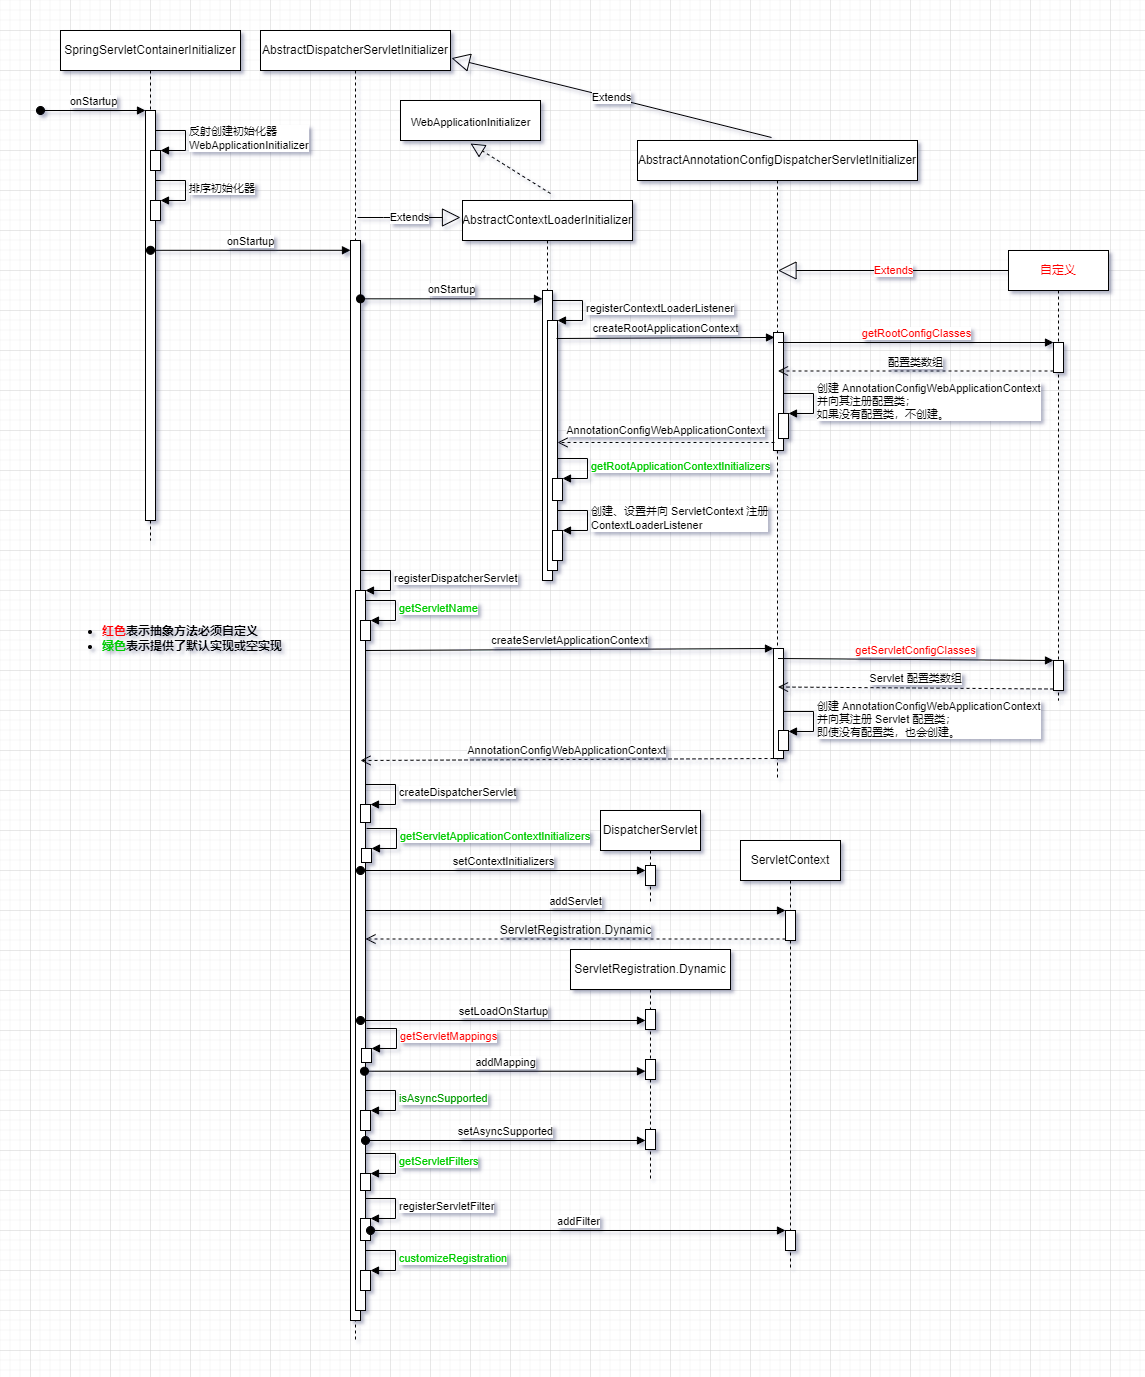
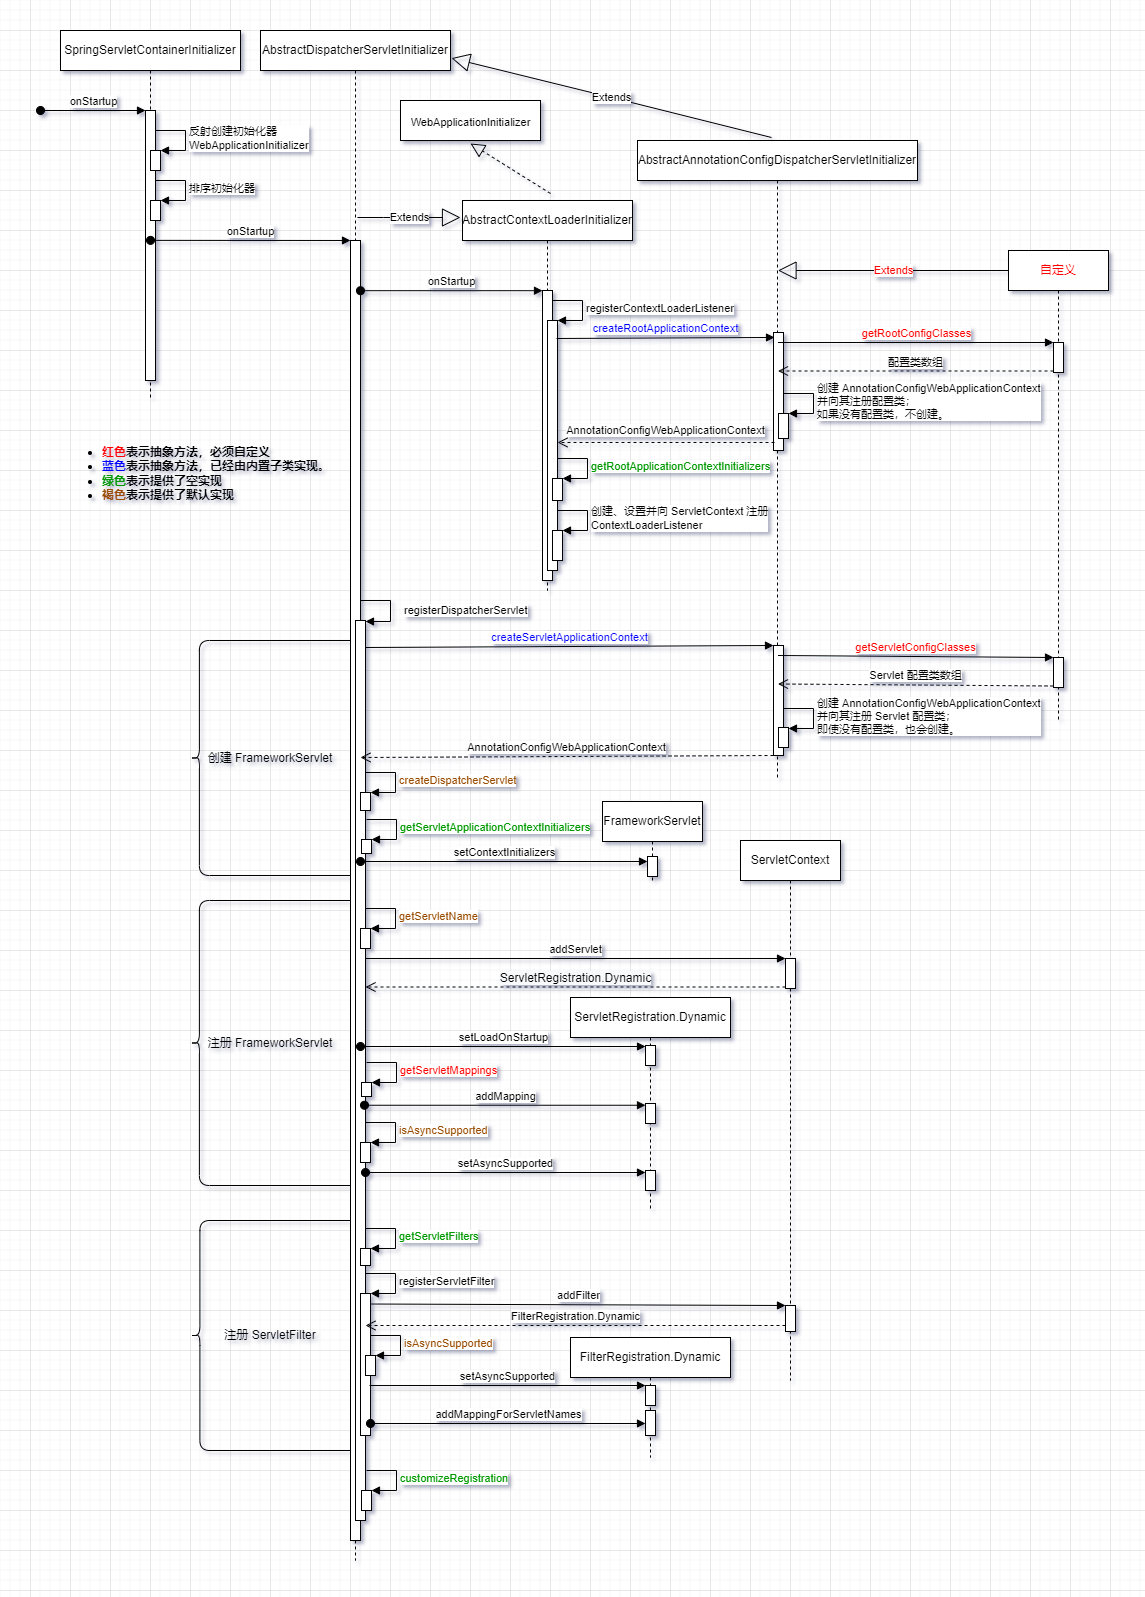
spring 源码

diff --git a/编程语言/Java/Javalang/Spring生态系统/modules/spring-webmvc/springmvc入口.md b/编程语言/Java/Javalang/Spring生态系统/modules/spring-webmvc/springmvc入口.md
@@ -203,13 +203,17 @@ Apache Tomcat 将其内部 `DefaultServlet` 映射到 `/`，并且在 Tomcat 版
 
 ### `registerDispatcherServlet`
 
-针对给定的 servlet 上下文注册 `DispatcherServlet` 。
-此方法将使用 `getServletName()` 返回的名称创建一个 `DispatcherServlet`，使用从 `createServletApplicationContext()` 返回的应用程序上下文对其进行初始化，并将其映射到从 `getServletMappings()` 返回的模式。
-可以通过覆盖 `customizeRegistration(ServletRegistration.Dynamic)` 或 `createDispatcherServlet(WebApplicationContext)` 来实现进一步的定制。
+针对给定的 `ServletContext` 注册 `DispatcherServlet` 。
 
 ![AbstractDispatcherServletInitializer-registerDispatcherServlet](images\AbstractDispatcherServletInitializer-registerDispatcherServlet.png)
 
+`registerDispatcherServlet` 方法将使用 `getServletName()` 返回的名称创建一个 `DispatcherServlet`，使用从 `createServletApplicationContext()` 返回的应用程序上下文对其进行初始化，并将其映射到从 `getServletMappings()` 返回的模式。
+可以通过覆盖 `customizeRegistration(ServletRegistration.Dynamic)` 或 `createDispatcherServlet(WebApplicationContext)` 来实现进一步的定制。
 
+* `getServletName()`  获取 servlet 名称。
+* `createServletApplicationContext` 创建要提供给 `DispatcherServlet` 的 servlet 应用上下文。**抽象方法**
+* `createDispatcherServlet` 使用指定的 `WebApplicationContext` 创建一个 `DispatcherServlet`。
+* 
 
 ## `AbstractAnnotationConfigDispatcherServletInitializer`
 
